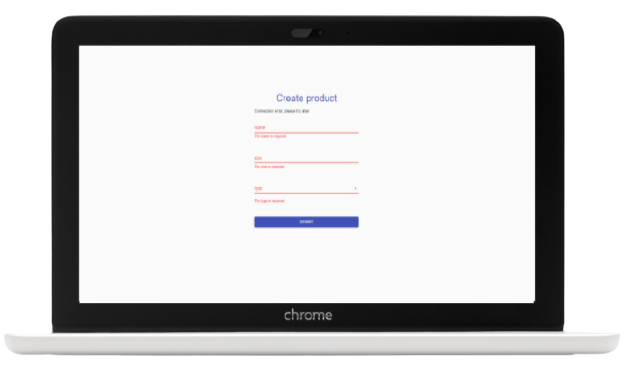
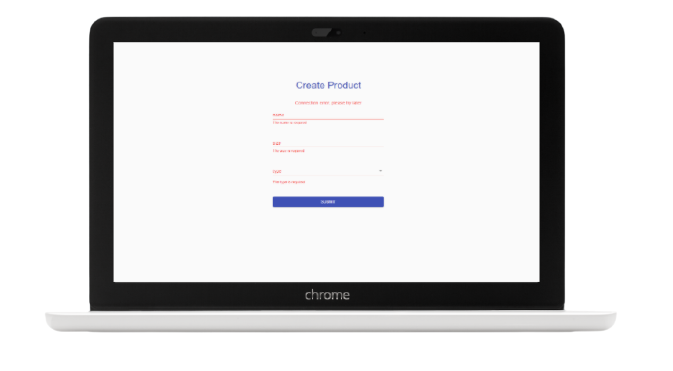
Add form styles

Changed region(s): [[0.0, 0.0296, 0.9688, 0.9191], [0.375, 0.3854, 0.5938, 0.593], [0.375, 0.2075, 0.5625, 0.3558]]

diff --git a/src/form/form.js b/src/form/form.js
@@ -132,12 +132,12 @@ export const Form = () => {
         my={20}
       >
         <Typography component="h1" variant="h4" align="center" color="primary">
-          Create product
+          <Box m={4}>Create Product</Box>
         </Typography>
 
         {isSuccess && <p>Product Stored</p>}
 
-        <p>{errorMessage}</p>
+        <Typography color="error">{errorMessage}</Typography>
 
         <form onSubmit={handleSubmit}>
           <Grid container spacing={4}>
@@ -152,7 +152,7 @@ export const Form = () => {
                 helperText={formErrors.name}
                 onBlur={handleBlur}
                 error={!!formErrors.name.length}
-              />
+              ></TextField>
             </Grid>
 
             <Grid item xs={12}>
@@ -164,7 +164,7 @@ export const Form = () => {
                 helperText={formErrors.size}
                 onBlur={handleBlur}
                 error={!!formErrors.size.length}
-              />
+              ></TextField>
             </Grid>
 
             <Grid item xs={12}>

diff --git a/src/index.js b/src/index.js
@@ -1,7 +1,6 @@
 import React from 'react'
 import ReactDOM from 'react-dom'
 import App from './App'
-import reportWebVitals from './reportWebVitals'
 
 ReactDOM.render(
   <React.StrictMode>
@@ -9,8 +8,3 @@ ReactDOM.render(
   </React.StrictMode>,
   document.getElementById('root'),
 )
-
-// If you want to start measuring performance in your app, pass a function
-// to log results (for example: reportWebVitals(console.log))
-// or send to an analytics endpoint. Learn more: https://bit.ly/CRA-vitals
-reportWebVitals()

diff --git a/public/index.html b/public/index.html
@@ -16,7 +16,7 @@
     <title>React TDD Form</title>
   </head>
   <body>
-    <noscript>You need to enable JavaScript to run this app.</noscript>
+    <noscript></noscript>
     <div id="root"></div>
   </body>
 </html>

diff --git a/README.md b/README.md
@@ -14,52 +14,39 @@ This exercise is part of the
 [**Test Driven Development (TDD) en React JS**](https://www.udemy.com/course/tdd-react-js/?referralCode=F40803D2C4D2934AB038)
 course.
 
-**NOTE:** a mock server and API rest have been used to develop this exercise.
+**NOTE:** a mock server and an API rest have been used to develop this exercise.
 
 ## **Quick start guide**
 
 Instructions to start this project:
 
-### **Pre-requirements**
+### Installation
 
-This project runs with
-[<img src = "https://img.shields.io/badge/-React-61DAFB?style=flat&logo=react&logoColor=black">](https://es.reactjs.org/).
-Start guide [**here**](https://github.com/facebook/create-react-app).
-
-### **Installation**
-
-Once React has been installed:
-
-1. Clone repository
-2. Open a terminal
-3. Run `npm install` on the terminal to install local dependencies
-
-### **Run project**
-
-Run `npm start` on the terminal:
-
-1. Open the project on the browser using a local server.
-2. Refresh browser everytime files contained in `/src` folder are updated.
-3. Compiled files contained in `/src` folder and copy them in `/public` folder
-   in order to be prepared for production environment.
-
-### **Updating**
-
-1. Run these commands to update changes on the project:
+- Clone repository:
 
 ```
-git add -A
-git commit -m "Message commit"
-git push
+git clone [repository]
 ```
 
-2. Run `npm run build` to create `/docs` folder and the production environment
-   version.
+- Install NPM packages and dependencies:
 
-3. Run again commands on step 1 to update changes on the project.
+```
+npm install
+```
 
-4. Project **[URL](https://anaguerraabaroa.github.io/react-tdd-form/)** is also
-   available on GitHub Pages.
+- Run project on local server
+
+```
+npm start
+```
+
+### Tests
+
+- Run tests:
+
+```
+npm run test
+```
 
 ## **Project features**
 
@@ -94,7 +81,7 @@ administrating my products.
 ## **Folder Structure**
 
 ```
-TDD Form with an API Request
+React TDD Form with an API Request
 ├── docs
 ├── node_modules
 ├── public
@@ -110,7 +97,6 @@ TDD Form with an API Request
 │   │    └── productServices.js
 │   ├── App
 │   │── index.js
-│   ├── reportWebVitals.js
 │   └── setupTests.js
 |── .eslintrc
 ├── .gitignore
